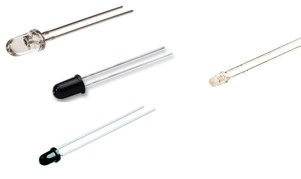
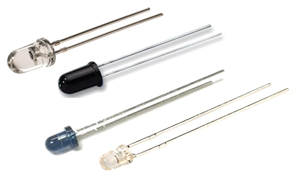
Update collector emitter voltage on cards 1-2, refresh card 2 image
Cards 1 and 2 now show "up to 70V" for Collector Emitter Voltage
(cards 3-4 unchanged at 30V max), and the 3mm/5mm phototransistor
group image is refreshed.

diff --git a/product-infrared-phototransistors.html b/product-infrared-phototransistors.html
@@ -264,7 +264,7 @@
                     <tr><td>Package</td><td>Through hole</td></tr>
                     <tr><td>Wavelength range</td><td>740-1060nm</td></tr>
                     <tr><td>Collector current</td><td>8.0mA</td></tr>
-                    <tr><td>Collector Emitter Voltage</td><td>30V max</td></tr>
+                    <tr><td>Collector Emitter Voltage</td><td>up to 70V</td></tr>
                   </tbody>
                 </table>
               </div>
@@ -292,7 +292,7 @@
                     <tr><td>Package</td><td>3mm/5mm Plastic</td></tr>
                     <tr><td>Peak wavelength</td><td>800–940nm</td></tr>
                     <tr><td>Collector current</td><td>8.0mA</td></tr>
-                    <tr><td>Collector Emitter Voltage</td><td>30V max</td></tr>
+                    <tr><td>Collector Emitter Voltage</td><td>up to 70V</td></tr>
                   </tbody>
                 </table>
               </div>
